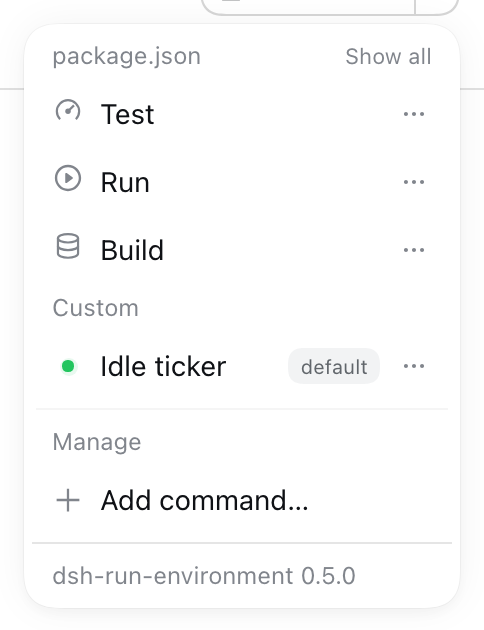
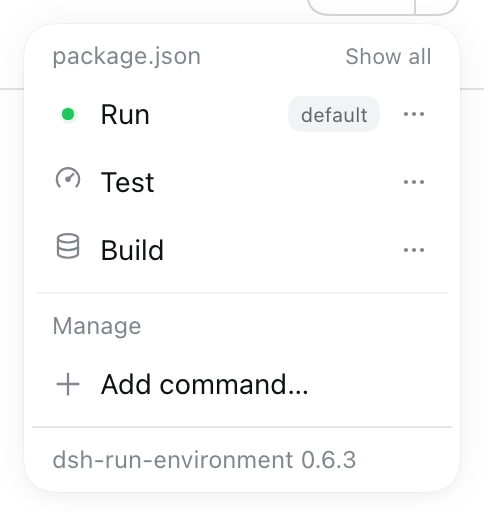
feat(button): wear the status dot while the default command is alive
The rows showed the green status dot while the header button still showed a play
icon, so "something is running" read differently depending on where you looked.
The button now wears the same dot, and its tooltip keeps promising what the click
does ("Ask before stopping …").

The screenshots for the running state were captured against a live harness with
the run state served by the plugin's own route, so they show real commands and
real pixels without starting anything in the author's project.

diff --git a/lib/client.js b/lib/client.js
@@ -48,7 +48,6 @@ window.__ModuleLoader__.load({
 		const IconPlusOutline16 = primitives.IconPlusOutline16;
 		const IconRefreshOutline16 = primitives.IconRefreshOutline16;
 		const IconSparkle16 = primitives.IconSparkle16;
-		const IconStopFill16 = primitives.IconStopFill16;
 		const IconTrashOutline16 = primitives.IconTrashOutline16;
 		const IconWarningOutline16 = primitives.IconWarningOutline16;
 		const h = React.createElement;
@@ -63,6 +62,7 @@ window.__ModuleLoader__.load({
 			'.RUNENV_main[data-state=error]{color:var(--dsw-alias-state-error-primary);box-shadow:inset 0 0 0 2px var(--dsw-alias-state-error-primary)}' +
 			'.RUNENV_chevron{border-left:.5px solid var(--dsw-alias-border-l4);color:var(--dsw-alias-label-secondary);padding:5px 6px 5px 4px}' +
 			'.RUNENV_icon{flex:none}' +
+			'.RUNENV_buttonStatus{display:inline-flex;align-items:center;justify-content:center;width:15px;height:15px;flex:none}' +
 			'.RUNENV_label{overflow:hidden;text-overflow:ellipsis;font-family:var(--dsw-font-markdown-code-font-family,ui-monospace,SFMono-Regular,Menlo,monospace)}' +
 			'.RUNENV_spin{animation:RUNENV_rotate 1s linear infinite}' +
 			'@keyframes RUNENV_rotate{from{transform:rotate(0)}to{transform:rotate(360deg)}}' +
@@ -116,6 +116,7 @@ window.__ModuleLoader__.load({
 			icon: 'RUNENV_icon',
 			label: 'RUNENV_label',
 			spin: 'RUNENV_spin',
+			buttonStatus: 'RUNENV_buttonStatus',
 			group: 'RUNENV_group',
 			groupTitle: 'RUNENV_groupTitle',
 			reveal: 'RUNENV_reveal',
@@ -1012,7 +1013,12 @@ window.__ModuleLoader__.load({
 
 			const actionTarget = actions === null ? null : (commands.find((entry) => entry.id === actions.id) ?? null);
 			const iconClass = state === 'pending' ? `${styles.icon} ${styles.spin}` : styles.icon;
-			const Icon = state === 'pending' ? IconLoadingOutline16 : running ? IconStopFill16 : IconPlayOutline16;
+			// A live command wears the same green status dot here as it does in the
+			// list: "something is running" reads the same wherever you look. The
+			// click is still the way to stop it, which the tooltip says.
+			const glyph = running
+				? h('span', { className: styles.buttonStatus }, h(StateDot, { state: 'done', size: 9 }))
+				: h(state === 'pending' ? IconLoadingOutline16 : IconPlayOutline16, { size: 15, className: iconClass });
 			const main = h(
 				'button',
 				{
@@ -1032,7 +1038,7 @@ window.__ModuleLoader__.load({
 						runCommand(current.id, 'run');
 					},
 				},
-				h(Icon, { size: 15, className: iconClass }),
+				glyph,
 				h('span', { className: styles.label }, current === null ? t('action.empty') : current.label),
 			);
 			const chevron = h(

diff --git a/test/client-contract.test.js b/test/client-contract.test.js
@@ -32,7 +32,6 @@ const primitiveNames = [
 	'IconPlusOutline16',
 	'IconRefreshOutline16',
 	'IconSparkle16',
-	'IconStopFill16',
 	'IconTrashOutline16',
 	'IconWarningOutline16',
 ];

diff --git a/CHANGELOG.md b/CHANGELOG.md
@@ -7,6 +7,14 @@ to [Semantic Versioning](https://semver.org/spec/v2.0.0.html).
 
 ## [Unreleased]
 
+## [0.6.4] - 2026-09-17
+
+### Changed
+
+- **The header control wears the status dot too.** While the default command is alive, the button's
+  play icon gives way to the same green dot the rows use, so "something is running" reads the same
+  wherever you look. Stopping was already behind the confirmation everywhere, and the tooltip says so.
+
 ## [0.6.3] - 2026-09-17
 
 ### Changed
@@ -245,7 +253,8 @@ First release: the concept, the architecture, and the Node.js adapter.
 - **61 tests** with `node:test`, no dependencies, offline, covering the model, the workspace layer,
   the registry, the store, the runner, the HTTP surface, and the client bundle contract.
 
-[Unreleased]: https://github.com/albertgranados/dsh-run-environment/compare/v0.6.3...HEAD
+[Unreleased]: https://github.com/albertgranados/dsh-run-environment/compare/v0.6.4...HEAD
+[0.6.4]: https://github.com/albertgranados/dsh-run-environment/compare/v0.6.3...v0.6.4
 [0.6.3]: https://github.com/albertgranados/dsh-run-environment/compare/v0.6.2...v0.6.3
 [0.6.2]: https://github.com/albertgranados/dsh-run-environment/compare/v0.6.1...v0.6.2
 [0.6.1]: https://github.com/albertgranados/dsh-run-environment/compare/v0.6.0...v0.6.1

diff --git a/README.md b/README.md
@@ -45,6 +45,10 @@ glyph, without touching the manifest:
 
 ![A running command's row, with the green status dot in place of its icon](docs/assets/menu-running.png)
 
+The same dot replaces the header button's play icon while the default command is alive:
+
+![The header control wearing the green status dot](docs/assets/button-running.png)
+
 Pressing that row asks before it stops:
 
 ![The stop confirmation a running command's row opens](docs/assets/row-stop.png)
